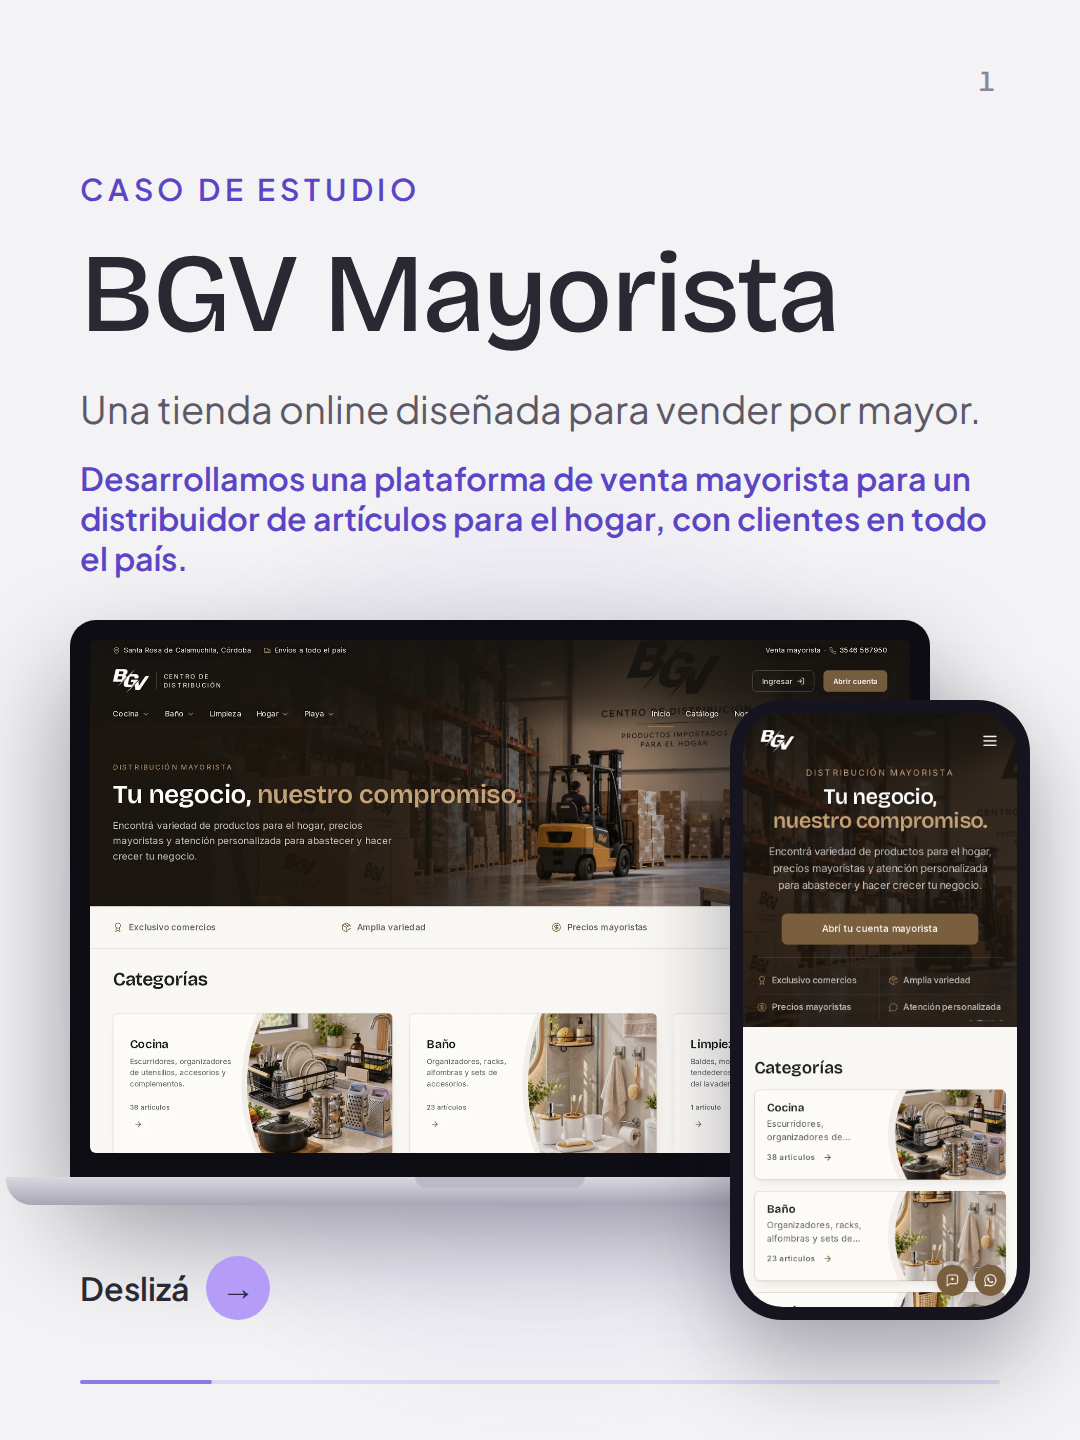
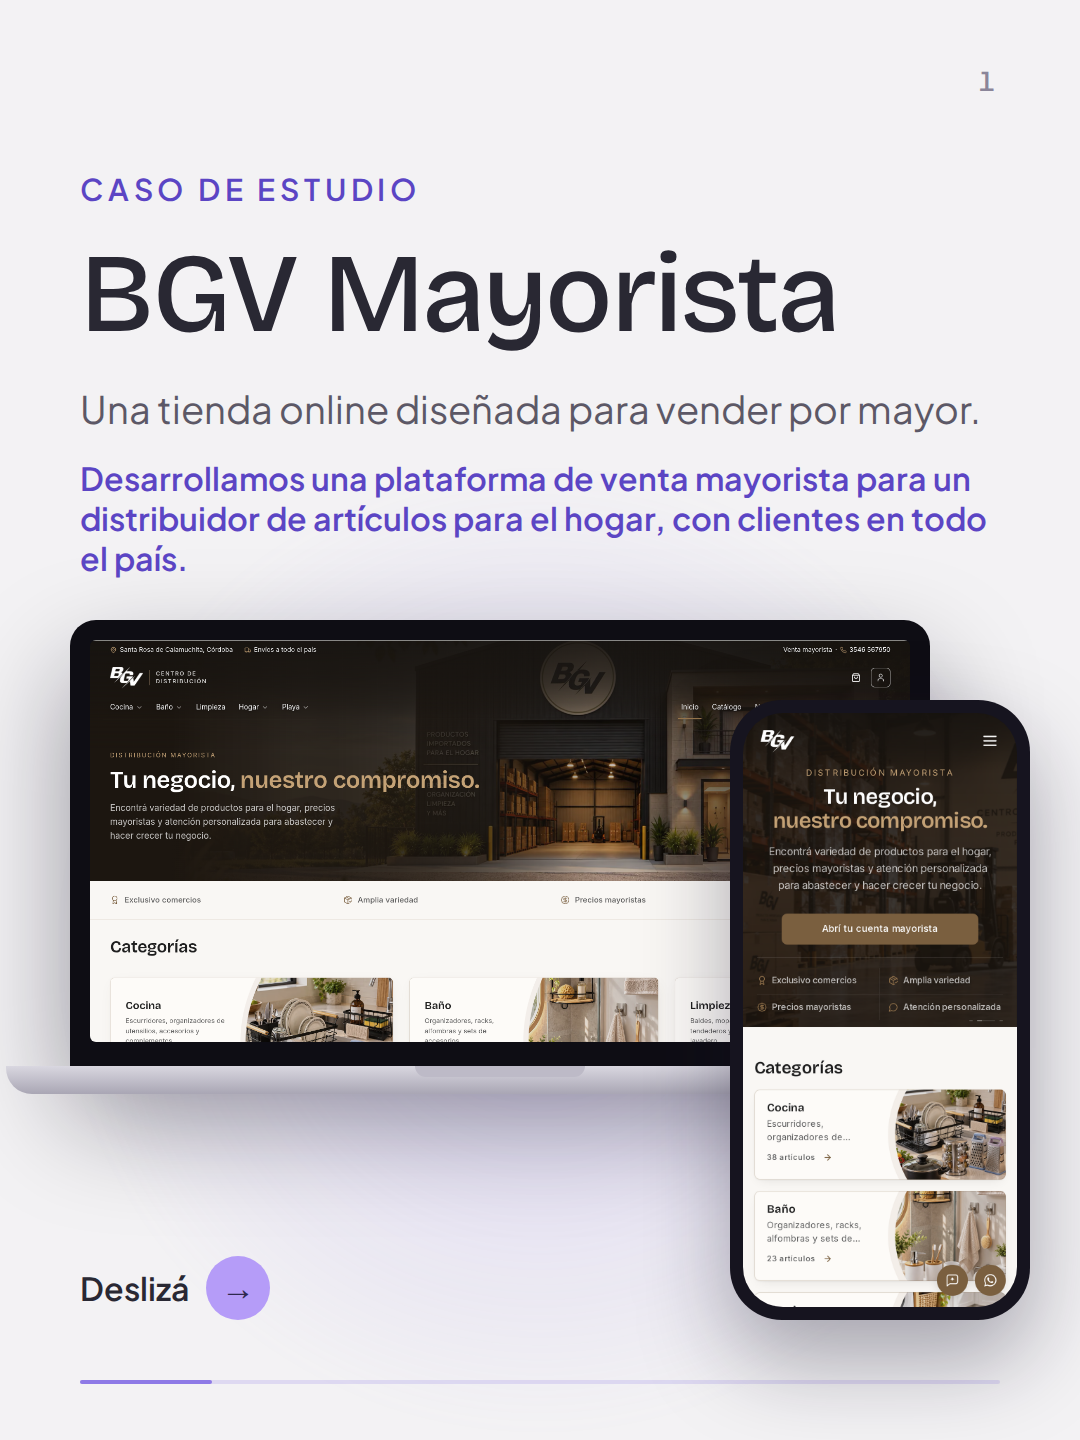
feat(instagram): portada de BGV con la fachada del depósito

diff --git a/instagram/carrusel-07-bgv/index.html b/instagram/carrusel-07-bgv/index.html
@@ -113,7 +113,7 @@
         <p class="note">Desarrollamos una plataforma de venta mayorista para un distribuidor de artículos para el hogar, con clientes en todo el país.</p>
       </div>
       <div class="laptop" style="left:70px;top:620px;width:860px">
-        <div class="screen"><img src="media/d-home.webp" alt="" /></div>
+        <div class="screen"><img src="media/d-home-fachada.png" alt="" /></div>
         <div class="base"></div>
       </div>
       <div class="phone sm" style="left:730px;top:700px;width:300px;--h:620px"><img src="media/m-home.png" alt="" /></div>
